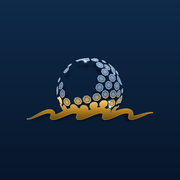
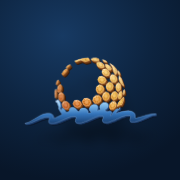
Ny loggstil Guldglas: bollen guld→orange, vågen i havsblått glas. Nya ikoner, startbilder och länkbild
Claude-Session: https://claude.ai/code/session_01D7uWpBJseNu5K1kmnTTqJf

Changed region(s): [[0.1389, 0.1389, 0.8889, 0.6944]]

diff --git a/index.html b/index.html
@@ -612,10 +612,10 @@ main{min-height:calc(100lvh + 1px);box-sizing:border-box}
 .xl .tf{transform:translateZ(0)}
 .xl .spk{transform:translateZ(4px);filter:drop-shadow(0 0 2px #fff) drop-shadow(0 0 5px rgba(170,215,255,.9))}
 .xl .b{fill:url(#xl-c)}
-.xl .tf polygon:not(.o):not(.b){stroke:rgba(255,255,255,.4);stroke-width:.14;stroke-linejoin:miter}
+.xl .tf polygon:not(.o):not(.b){stroke:rgba(255,240,210,.22);stroke-width:.12;stroke-linejoin:miter}
 .xl .t{fill:#fff;fill-opacity:var(--t,.25)}
 .xl .o{fill:none;stroke:#fff;stroke-opacity:.92;stroke-width:.38;stroke-linejoin:miter}
-.xl .g{fill:url(#xl-g);stroke:#fff6d8;stroke-opacity:.8;stroke-width:.3;stroke-linejoin:round}
+.xl .g{fill:url(#xl-g);stroke:#eef7ff;stroke-opacity:.8;stroke-width:.3;stroke-linejoin:round}
 .xl .sp{fill:#fff;opacity:0;transform-box:fill-box;transform-origin:center;animation:xltw 4.2s ease-in-out infinite}
 @keyframes xltw{0%,74%,100%{opacity:0;transform:scale(.1) rotate(0)}84%{opacity:1;transform:scale(1) rotate(45deg)}92%{opacity:.2;transform:scale(.4) rotate(90deg)}}
 .hero .xl+.eyebrow{margin-top:18px!important}
@@ -900,6 +900,8 @@ body[data-view="tv"]{background:radial-gradient(120% 90% at 20% 0%,#1d3550 0%,#0
 body.sun .qbtn{background:#eef3f7;border-color:#cfd9e3}
 #playCode .codebox{padding-top:22px;padding-bottom:26px}
 #playCode .codebox .codein{font-size:2.4rem;padding-top:14px;padding-bottom:14px}
+.lg:not(.big){filter:drop-shadow(0 0 1px rgba(255,255,255,.6)) drop-shadow(0 0 6px rgba(240,170,70,.35))!important}
+.xl .spk{filter:drop-shadow(0 0 2px #fff) drop-shadow(0 0 5px rgba(255,200,110,.9))!important}
 </style></head>
 <body><svg width="0" height="0" style="position:absolute" aria-hidden="true"><defs>
 <linearGradient id="lg-grad" x1="0" y1="0" x2="0" y2="1"><stop offset=".6" style="stop-color:currentColor"/><stop offset=".88" style="stop-color:var(--gold)"/></linearGradient>
@@ -918,8 +920,8 @@ body.sun .qbtn{background:#eef3f7;border-color:#cfd9e3}
 <symbol id="i-ext" viewBox="0 0 24 24"><path d="M7 17L17 7M8 7h9v9"/></symbol>
 <symbol id="i-next" viewBox="0 0 24 24"><path d="M9 6l6 6-6 6"/></symbol>
 <symbol id="i-back" viewBox="0 0 24 24"><path d="M19 12H5M11 6l-6 6 6 6"/></symbol>
-<linearGradient id="lg-crystal" x1="0" y1="0" x2=".35" y2="1"><stop offset="0" stop-color="#ffffff" stop-opacity=".98"/><stop offset=".28" stop-color="#e3f1ff" stop-opacity=".82"/><stop offset=".46" stop-color="#9fc4e8" stop-opacity=".62"/><stop offset=".53" stop-color="#ffffff" stop-opacity=".95"/><stop offset=".6" stop-color="#bcd8f2" stop-opacity=".7"/><stop offset=".74" stop-color="#f6dd8e" stop-opacity=".95"/><stop offset="1" stop-color="#b58b24" stop-opacity=".95"/></linearGradient>
-<symbol id="i-logo" viewBox="0 56.0 200 103.0"><path fill="url(#lg-crystal)" stroke="rgba(255,255,255,.75)" stroke-width=".6" fill-rule="evenodd" stroke="none" d="M138.2 126.2 136.8 125.8 134.0 126.2 132.3 127.2 130.3 129.5 129.3 131.8 129.2 134.8 130.0 136.8 130.8 137.7 132.8 138.5 134.3 138.3 136.3 137.5 138.8 135.0 140.0 132.2 140.2 129.5 139.7 127.8ZM59.8 123.7 58.0 125.2 57.2 127.2 57.2 129.3 58.0 132.0 58.8 133.3 61.5 135.7 63.0 136.2 65.5 136.0 67.3 134.5 67.8 133.5 68.0 131.7 67.7 128.7 66.7 126.7 64.0 124.2 62.3 123.5ZM75.8 123.3 74.0 125.7 74.0 128.7 75.0 130.7 76.2 132.0 78.3 133.5 80.2 134.0 83.7 133.8 85.8 132.3 86.8 130.5 86.8 128.2 85.8 125.8 84.3 124.2 82.3 123.0 80.2 122.3 78.3 122.3ZM90.8 120.3 88.8 122.3 88.0 124.7 88.3 127.2 90.0 129.8 92.2 131.5 93.8 132.0 97.7 131.8 99.5 130.7 100.7 129.3 101.3 127.3 101.3 125.5 101.0 124.2 100.0 122.3 97.3 120.2 95.0 119.5 93.3 119.5ZM151.5 119.3 150.8 119.8 149.7 122.3 149.0 123.0 146.8 123.5 144.0 126.5 142.3 129.3 141.8 131.0 141.0 132.3 141.0 134.2 141.3 134.7 141.8 134.8 142.7 134.5 144.5 132.8 146.2 130.5 146.8 130.8 146.7 132.5 147.0 132.8 147.5 132.8 147.8 132.5 149.7 128.7 151.7 122.5 151.8 119.7ZM114.0 116.2 111.8 115.7 108.5 116.0 106.8 117.0 105.2 118.7 104.0 121.0 104.0 124.2 105.2 126.2 106.5 127.3 108.8 128.2 111.2 128.2 112.5 127.8 114.2 127.0 115.7 125.7 116.5 124.5 117.2 122.2 117.0 119.8 116.0 117.8ZM124.0 110.7 122.5 111.0 120.2 113.0 119.2 114.8 118.8 117.7 119.2 120.0 120.2 122.0 121.7 123.5 123.7 124.3 125.0 124.3 127.2 123.5 128.8 121.7 129.8 119.2 129.8 116.0 128.8 113.3 127.3 111.7 125.7 110.8ZM138.5 110.5 136.8 110.5 135.2 111.2 133.7 112.7 132.2 115.7 132.0 118.8 132.7 121.2 134.2 123.0 135.8 123.8 138.0 123.7 139.3 122.8 140.7 121.5 141.8 119.3 141.8 113.5 140.3 111.3ZM147.7 110.0 146.3 110.3 145.5 111.2 144.2 113.3 143.7 115.3 143.0 116.5 143.0 121.7 144.0 123.0 145.2 123.0 146.5 121.8 147.7 120.2 148.0 118.7 148.7 117.5 149.0 115.2 149.0 111.8 148.5 110.5ZM55.2 109.5 53.7 110.2 52.2 112.2 51.5 114.8 51.5 117.8 52.0 120.2 52.5 121.2 53.8 122.7 55.5 123.2 56.8 122.7 58.7 120.0 59.0 118.3 59.0 114.5 58.7 112.7 57.7 111.0 56.7 110.0ZM152.3 107.8 151.3 108.5 150.8 110.5 150.7 115.0 151.2 116.0 151.7 116.0 152.0 115.7 152.8 112.8 152.8 108.3ZM47.0 104.3 46.2 104.5 45.8 107.5 46.0 117.3 46.2 118.2 46.7 118.5 47.5 117.7 47.8 116.0 47.8 107.5 47.7 105.7ZM114.3 99.5 112.3 100.2 110.2 102.2 109.2 104.2 109.0 107.7 110.2 110.5 112.2 112.3 113.7 113.0 116.5 113.0 119.0 111.7 120.3 110.0 121.2 107.5 121.2 105.2 120.5 102.8 118.7 100.7 116.5 99.7ZM143.7 97.2 142.2 97.5 140.8 98.7 140.2 99.8 139.3 103.0 139.3 104.8 140.0 107.8 141.0 109.5 141.8 110.3 143.0 110.8 144.2 110.7 145.7 109.5 146.8 107.2 147.2 104.7 147.0 102.0 146.3 99.7 145.3 98.2ZM54.3 97.2 53.2 97.5 52.2 98.3 51.0 100.2 50.8 101.2 50.0 102.8 49.5 105.3 49.5 108.3 50.0 109.7 50.8 110.3 51.5 110.3 52.3 109.8 53.7 108.3 54.7 106.5 55.7 103.0 55.7 98.8 55.0 97.7ZM129.0 95.8 127.8 96.2 126.7 97.0 125.2 99.0 124.5 101.8 124.5 103.0 125.0 105.7 126.8 108.2 127.8 108.8 129.0 109.2 131.2 109.2 132.3 108.8 134.5 106.7 135.5 103.8 135.5 101.2 134.8 99.0 133.5 97.2 132.2 96.2 131.2 95.8ZM50.8 90.2 50.3 90.2 49.8 90.7 48.2 93.8 47.5 96.5 47.5 97.5 47.8 97.8 48.5 97.8 50.7 94.0 51.2 90.7ZM144.5 86.3 143.8 86.8 143.7 87.3 143.7 90.0 144.2 92.5 144.8 93.8 145.2 95.3 147.5 98.8 149.3 99.2 149.7 99.5 150.2 102.2 151.2 104.5 151.5 104.5 151.8 104.0 151.8 103.0 150.5 97.8 149.0 95.5 148.7 93.2 146.8 88.8 145.8 87.3ZM113.7 87.2 112.2 88.7 111.8 89.5 112.0 93.2 113.7 95.7 116.5 97.5 119.0 98.0 122.0 97.5 123.8 96.0 124.7 94.5 124.7 91.8 123.7 89.7 122.0 88.0 120.0 86.8 118.2 86.2 116.0 86.2ZM133.5 84.2 132.5 84.7 131.2 86.0 130.8 86.8 130.7 90.2 131.2 92.3 132.3 94.2 133.8 95.7 135.5 96.7 138.8 96.7 140.7 95.2 141.2 93.8 141.5 92.0 140.8 88.8 139.2 86.3 137.8 85.2 135.2 84.0ZM142.2 78.2 141.8 78.7 142.0 79.8 143.3 83.0 145.0 85.5 146.0 85.7 146.3 85.2 146.2 84.2 144.7 80.7 142.7 78.2ZM119.5 76.0 118.3 77.7 118.0 79.2 118.8 82.0 120.7 84.5 122.5 85.8 125.5 86.8 127.3 86.7 128.8 85.8 129.7 85.0 130.3 83.2 130.0 80.7 128.7 78.2 127.8 77.5 127.5 76.8 126.7 76.2 125.7 76.0 123.5 75.0 121.7 75.0 120.5 75.3ZM64.8 73.0 63.3 73.0 59.3 76.5 56.2 81.3 56.0 82.3 56.3 83.2 57.0 83.3 58.3 82.8 61.8 79.8 64.8 75.7 65.3 73.5ZM123.3 68.2 123.0 69.0 123.2 70.5 124.8 73.3 126.7 75.2 127.0 75.8 130.3 77.8 132.8 77.8 133.3 76.8 132.8 74.7 131.5 72.5 130.2 71.0 128.0 69.2 126.0 68.0 124.2 67.8ZM130.3 66.8 130.2 67.7 131.2 69.2 135.2 73.3 134.7 75.2 135.0 77.5 137.2 82.2 139.0 84.7 140.2 85.7 141.0 86.0 141.7 85.8 142.0 85.2 141.8 83.5 140.8 81.3 140.7 80.3 139.0 77.7 139.3 77.0 140.5 77.0 140.5 76.2 137.5 72.5 133.8 69.0 131.2 67.0ZM69.5 67.0 68.2 67.0 66.0 68.2 63.2 70.5 62.7 71.2 62.7 71.7 63.0 72.0 64.3 72.0 67.3 70.0 69.3 68.0 69.7 67.3ZM110.2 65.3 109.8 66.2 110.0 68.3 110.8 69.7 112.8 71.7 114.8 72.8 118.5 73.8 120.5 73.5 121.8 72.5 122.0 70.7 121.7 69.2 119.5 66.7 117.5 65.3 114.7 64.3 113.3 64.2 111.8 64.3ZM119.0 61.0 119.0 61.7 120.2 62.8 122.7 64.5 125.3 65.5 126.0 65.3 126.0 64.3 123.5 62.3 120.8 61.0ZM101.2 59.3 101.2 59.8 103.2 61.3 107.3 62.7 113.3 62.8 114.3 62.2 114.3 61.3 113.5 60.7 113.5 59.7 113.2 59.2 110.0 58.0 105.7 57.7 104.5 58.5 102.8 58.5 101.7 58.8ZM99.3 61.2 98.0 60.2 96.3 60.0 95.2 59.5 95.5 59.0 96.3 58.8 97.3 58.2 97.2 57.2 91.7 57.0 90.3 57.3 89.3 58.0 89.3 59.7 87.3 60.0 86.8 59.5 86.8 58.8 86.5 58.5 82.5 59.2 75.3 62.0 73.8 63.0 73.7 63.7 74.5 64.0 79.3 62.8 81.0 62.0 82.5 61.7 85.5 60.2 86.2 60.3 86.0 61.5 87.7 62.7 91.3 63.2 95.2 63.2 98.0 62.8 99.2 62.0ZM0.0 157.5 5.3 156.8 7.5 156.0 9.3 155.7 23.2 150.0 24.7 149.7 25.8 149.0 28.0 148.7 29.3 148.0 31.7 147.7 36.0 147.7 36.7 147.8 37.7 149.0 37.7 149.8 36.5 153.7 36.5 155.3 37.0 156.3 39.2 157.7 44.3 157.7 51.5 155.7 53.0 154.8 54.2 154.7 55.2 154.0 67.8 149.0 72.3 147.8 76.7 147.7 78.0 148.0 78.8 149.0 78.8 150.2 78.2 151.5 77.8 153.0 77.8 155.5 78.2 156.3 80.0 157.7 85.0 157.8 87.2 157.5 88.2 157.0 90.2 156.7 91.0 156.2 93.7 155.5 109.3 149.0 110.8 148.8 114.0 147.8 117.8 147.7 119.5 148.0 120.2 149.2 120.0 150.7 119.2 152.7 119.0 154.0 119.2 155.7 119.7 156.5 121.5 157.7 126.0 157.8 128.2 157.5 131.7 156.5 132.5 156.0 134.3 155.7 135.8 154.8 136.8 154.7 140.3 153.0 141.7 152.7 142.7 152.0 144.2 151.7 145.5 150.8 150.3 149.0 152.3 148.7 154.5 147.8 160.0 147.7 161.0 148.0 161.5 148.5 161.8 149.5 160.7 153.3 160.7 155.3 161.0 156.2 161.8 157.0 163.3 157.7 167.8 157.7 175.2 155.7 191.0 149.0 194.8 147.8 199.8 147.3 199.8 146.2 195.5 146.0 191.3 146.5 188.0 147.2 186.3 147.8 183.8 148.2 182.5 148.8 180.3 149.2 175.2 150.8 172.8 151.2 170.8 151.8 168.5 151.8 168.0 151.2 168.3 150.0 168.3 147.8 167.5 145.0 166.7 143.8 164.8 142.2 162.3 141.0 158.3 140.3 153.2 140.7 146.8 142.0 145.0 142.8 143.0 143.2 141.8 143.8 139.3 144.5 139.3 143.5 140.7 142.0 142.5 139.0 143.8 139.0 144.7 138.3 145.8 136.7 146.0 135.7 145.3 135.3 143.5 137.7 142.8 137.7 141.5 137.0 139.5 138.0 138.5 138.8 135.0 142.7 133.5 145.5 133.3 146.3 132.3 147.2 131.2 147.3 131.2 146.5 132.5 144.7 132.8 143.7 132.8 142.3 132.5 141.7 131.5 140.8 130.0 140.3 125.8 141.0 123.5 139.7 122.7 138.8 123.2 138.0 124.3 137.7 126.5 135.7 127.5 134.0 127.8 132.5 127.7 130.3 127.0 129.2 125.8 128.0 124.0 127.2 120.3 127.3 118.3 128.2 116.2 130.2 115.2 131.7 114.8 133.8 115.2 136.2 116.2 137.3 116.2 137.8 115.5 138.3 114.0 138.3 112.2 138.8 111.2 138.8 110.7 138.3 111.8 136.0 111.8 132.8 110.8 131.3 109.5 130.3 108.0 129.8 105.2 129.8 103.8 130.2 102.3 131.0 100.3 132.8 99.0 135.5 99.2 138.3 99.7 139.2 101.8 141.2 101.8 141.5 101.3 142.0 100.2 142.2 99.2 142.8 97.3 143.2 97.0 142.8 96.8 139.8 95.8 138.0 94.2 136.3 92.2 135.2 88.5 134.8 86.5 135.3 85.0 136.7 84.2 138.2 84.0 140.0 83.3 140.5 80.5 139.2 79.7 138.3 78.8 136.8 77.2 135.2 75.0 134.0 73.3 133.7 71.7 133.7 70.5 134.0 69.0 135.3 68.3 136.8 68.5 139.2 68.0 139.8 64.0 141.3 63.3 141.3 60.5 136.8 58.2 134.5 57.2 134.3 56.8 134.7 56.8 138.5 56.0 138.2 55.8 137.5 53.7 134.7 53.7 134.3 54.8 133.3 55.0 131.7 54.7 128.7 53.7 125.7 52.5 123.3 50.8 121.3 50.0 121.2 48.7 123.0 47.5 122.3 47.3 123.2 48.0 125.3 48.3 125.7 49.3 125.3 49.8 126.0 50.0 127.3 51.2 130.5 52.2 132.0 52.2 132.7 51.5 133.3 52.0 135.3 55.2 140.8 57.0 143.2 57.2 143.7 56.7 144.5 54.8 145.2 54.0 145.8 50.0 147.8 49.0 148.0 47.3 149.0 44.3 149.8 43.8 149.3 43.7 147.5 42.8 145.3 40.8 143.2 39.0 142.2 37.2 141.8 33.2 141.8 30.7 142.2 29.2 142.8 27.3 143.2 23.2 145.0 7.0 154.0 2.7 155.8 0.0 156.2ZM87.8 146.3 88.2 145.8 88.7 145.8 89.2 146.5 88.3 147.0ZM57.2 139.2 57.5 139.2Z"/></symbol>
+<linearGradient id="lg-dots" gradientUnits="userSpaceOnUse" x1="150" y1="58" x2="60" y2="140"><stop offset="0" stop-color="#fff3c4"/><stop offset=".4" stop-color="#f6c24f"/><stop offset=".75" stop-color="#ec8f2e"/><stop offset="1" stop-color="#cf5f28"/></linearGradient><linearGradient id="lg-wave" gradientUnits="userSpaceOnUse" x1="0" y1="120" x2="200" y2="158"><stop offset="0" stop-color="#d6ecff"/><stop offset=".45" stop-color="#6aaee6"/><stop offset="1" stop-color="#1f4f8f"/></linearGradient><linearGradient id="lg-crystal" x1="0" y1="0" x2=".35" y2="1"><stop offset="0" stop-color="#ffffff" stop-opacity=".98"/><stop offset=".28" stop-color="#e3f1ff" stop-opacity=".82"/><stop offset=".46" stop-color="#9fc4e8" stop-opacity=".62"/><stop offset=".53" stop-color="#ffffff" stop-opacity=".95"/><stop offset=".6" stop-color="#bcd8f2" stop-opacity=".7"/><stop offset=".74" stop-color="#f6dd8e" stop-opacity=".95"/><stop offset="1" stop-color="#b58b24" stop-opacity=".95"/></linearGradient>
+<symbol id="i-logo" viewBox="0 56.0 200 103.0"><path class="lgd" fill="url(#lg-dots)" fill-rule="evenodd" stroke="#fff" stroke-opacity=".35" stroke-width=".5" d="M138.2 126.2 136.8 125.8 134.0 126.2 132.3 127.2 130.3 129.5 129.3 131.8 129.2 134.8 130.0 136.8 130.8 137.7 132.8 138.5 134.3 138.3 136.3 137.5 138.8 135.0 140.0 132.2 140.2 129.5 139.7 127.8ZM59.8 123.7 58.0 125.2 57.2 127.2 57.2 129.3 58.0 132.0 58.8 133.3 61.5 135.7 63.0 136.2 65.5 136.0 67.3 134.5 67.8 133.5 68.0 131.7 67.7 128.7 66.7 126.7 64.0 124.2 62.3 123.5ZM75.8 123.3 74.0 125.7 74.0 128.7 75.0 130.7 76.2 132.0 78.3 133.5 80.2 134.0 83.7 133.8 85.8 132.3 86.8 130.5 86.8 128.2 85.8 125.8 84.3 124.2 82.3 123.0 80.2 122.3 78.3 122.3ZM90.8 120.3 88.8 122.3 88.0 124.7 88.3 127.2 90.0 129.8 92.2 131.5 93.8 132.0 97.7 131.8 99.5 130.7 100.7 129.3 101.3 127.3 101.3 125.5 101.0 124.2 100.0 122.3 97.3 120.2 95.0 119.5 93.3 119.5ZM151.5 119.3 150.8 119.8 149.7 122.3 149.0 123.0 146.8 123.5 144.0 126.5 142.3 129.3 141.8 131.0 141.0 132.3 141.0 134.2 141.3 134.7 141.8 134.8 142.7 134.5 144.5 132.8 146.2 130.5 146.8 130.8 146.7 132.5 147.0 132.8 147.5 132.8 147.8 132.5 149.7 128.7 151.7 122.5 151.8 119.7ZM114.0 116.2 111.8 115.7 108.5 116.0 106.8 117.0 105.2 118.7 104.0 121.0 104.0 124.2 105.2 126.2 106.5 127.3 108.8 128.2 111.2 128.2 112.5 127.8 114.2 127.0 115.7 125.7 116.5 124.5 117.2 122.2 117.0 119.8 116.0 117.8ZM124.0 110.7 122.5 111.0 120.2 113.0 119.2 114.8 118.8 117.7 119.2 120.0 120.2 122.0 121.7 123.5 123.7 124.3 125.0 124.3 127.2 123.5 128.8 121.7 129.8 119.2 129.8 116.0 128.8 113.3 127.3 111.7 125.7 110.8ZM138.5 110.5 136.8 110.5 135.2 111.2 133.7 112.7 132.2 115.7 132.0 118.8 132.7 121.2 134.2 123.0 135.8 123.8 138.0 123.7 139.3 122.8 140.7 121.5 141.8 119.3 141.8 113.5 140.3 111.3ZM147.7 110.0 146.3 110.3 145.5 111.2 144.2 113.3 143.7 115.3 143.0 116.5 143.0 121.7 144.0 123.0 145.2 123.0 146.5 121.8 147.7 120.2 148.0 118.7 148.7 117.5 149.0 115.2 149.0 111.8 148.5 110.5ZM55.2 109.5 53.7 110.2 52.2 112.2 51.5 114.8 51.5 117.8 52.0 120.2 52.5 121.2 53.8 122.7 55.5 123.2 56.8 122.7 58.7 120.0 59.0 118.3 59.0 114.5 58.7 112.7 57.7 111.0 56.7 110.0ZM152.3 107.8 151.3 108.5 150.8 110.5 150.7 115.0 151.2 116.0 151.7 116.0 152.0 115.7 152.8 112.8 152.8 108.3ZM47.0 104.3 46.2 104.5 45.8 107.5 46.0 117.3 46.2 118.2 46.7 118.5 47.5 117.7 47.8 116.0 47.8 107.5 47.7 105.7ZM114.3 99.5 112.3 100.2 110.2 102.2 109.2 104.2 109.0 107.7 110.2 110.5 112.2 112.3 113.7 113.0 116.5 113.0 119.0 111.7 120.3 110.0 121.2 107.5 121.2 105.2 120.5 102.8 118.7 100.7 116.5 99.7ZM143.7 97.2 142.2 97.5 140.8 98.7 140.2 99.8 139.3 103.0 139.3 104.8 140.0 107.8 141.0 109.5 141.8 110.3 143.0 110.8 144.2 110.7 145.7 109.5 146.8 107.2 147.2 104.7 147.0 102.0 146.3 99.7 145.3 98.2ZM54.3 97.2 53.2 97.5 52.2 98.3 51.0 100.2 50.8 101.2 50.0 102.8 49.5 105.3 49.5 108.3 50.0 109.7 50.8 110.3 51.5 110.3 52.3 109.8 53.7 108.3 54.7 106.5 55.7 103.0 55.7 98.8 55.0 97.7ZM129.0 95.8 127.8 96.2 126.7 97.0 125.2 99.0 124.5 101.8 124.5 103.0 125.0 105.7 126.8 108.2 127.8 108.8 129.0 109.2 131.2 109.2 132.3 108.8 134.5 106.7 135.5 103.8 135.5 101.2 134.8 99.0 133.5 97.2 132.2 96.2 131.2 95.8ZM50.8 90.2 50.3 90.2 49.8 90.7 48.2 93.8 47.5 96.5 47.5 97.5 47.8 97.8 48.5 97.8 50.7 94.0 51.2 90.7ZM144.5 86.3 143.8 86.8 143.7 87.3 143.7 90.0 144.2 92.5 144.8 93.8 145.2 95.3 147.5 98.8 149.3 99.2 149.7 99.5 150.2 102.2 151.2 104.5 151.5 104.5 151.8 104.0 151.8 103.0 150.5 97.8 149.0 95.5 148.7 93.2 146.8 88.8 145.8 87.3ZM113.7 87.2 112.2 88.7 111.8 89.5 112.0 93.2 113.7 95.7 116.5 97.5 119.0 98.0 122.0 97.5 123.8 96.0 124.7 94.5 124.7 91.8 123.7 89.7 122.0 88.0 120.0 86.8 118.2 86.2 116.0 86.2ZM133.5 84.2 132.5 84.7 131.2 86.0 130.8 86.8 130.7 90.2 131.2 92.3 132.3 94.2 133.8 95.7 135.5 96.7 138.8 96.7 140.7 95.2 141.2 93.8 141.5 92.0 140.8 88.8 139.2 86.3 137.8 85.2 135.2 84.0ZM142.2 78.2 141.8 78.7 142.0 79.8 143.3 83.0 145.0 85.5 146.0 85.7 146.3 85.2 146.2 84.2 144.7 80.7 142.7 78.2ZM119.5 76.0 118.3 77.7 118.0 79.2 118.8 82.0 120.7 84.5 122.5 85.8 125.5 86.8 127.3 86.7 128.8 85.8 129.7 85.0 130.3 83.2 130.0 80.7 128.7 78.2 127.8 77.5 127.5 76.8 126.7 76.2 125.7 76.0 123.5 75.0 121.7 75.0 120.5 75.3ZM64.8 73.0 63.3 73.0 59.3 76.5 56.2 81.3 56.0 82.3 56.3 83.2 57.0 83.3 58.3 82.8 61.8 79.8 64.8 75.7 65.3 73.5ZM123.3 68.2 123.0 69.0 123.2 70.5 124.8 73.3 126.7 75.2 127.0 75.8 130.3 77.8 132.8 77.8 133.3 76.8 132.8 74.7 131.5 72.5 130.2 71.0 128.0 69.2 126.0 68.0 124.2 67.8ZM130.3 66.8 130.2 67.7 131.2 69.2 135.2 73.3 134.7 75.2 135.0 77.5 137.2 82.2 139.0 84.7 140.2 85.7 141.0 86.0 141.7 85.8 142.0 85.2 141.8 83.5 140.8 81.3 140.7 80.3 139.0 77.7 139.3 77.0 140.5 77.0 140.5 76.2 137.5 72.5 133.8 69.0 131.2 67.0ZM69.5 67.0 68.2 67.0 66.0 68.2 63.2 70.5 62.7 71.2 62.7 71.7 63.0 72.0 64.3 72.0 67.3 70.0 69.3 68.0 69.7 67.3ZM110.2 65.3 109.8 66.2 110.0 68.3 110.8 69.7 112.8 71.7 114.8 72.8 118.5 73.8 120.5 73.5 121.8 72.5 122.0 70.7 121.7 69.2 119.5 66.7 117.5 65.3 114.7 64.3 113.3 64.2 111.8 64.3ZM119.0 61.0 119.0 61.7 120.2 62.8 122.7 64.5 125.3 65.5 126.0 65.3 126.0 64.3 123.5 62.3 120.8 61.0ZM101.2 59.3 101.2 59.8 103.2 61.3 107.3 62.7 113.3 62.8 114.3 62.2 114.3 61.3 113.5 60.7 113.5 59.7 113.2 59.2 110.0 58.0 105.7 57.7 104.5 58.5 102.8 58.5 101.7 58.8ZM99.3 61.2 98.0 60.2 96.3 60.0 95.2 59.5 95.5 59.0 96.3 58.8 97.3 58.2 97.2 57.2 91.7 57.0 90.3 57.3 89.3 58.0 89.3 59.7 87.3 60.0 86.8 59.5 86.8 58.8 86.5 58.5 82.5 59.2 75.3 62.0 73.8 63.0 73.7 63.7 74.5 64.0 79.3 62.8 81.0 62.0 82.5 61.7 85.5 60.2 86.2 60.3 86.0 61.5 87.7 62.7 91.3 63.2 95.2 63.2 98.0 62.8 99.2 62.0ZM87.8 146.3 88.2 145.8 88.7 145.8 89.2 146.5 88.3 147.0ZM57.2 139.2 57.5 139.2Z"/><path class="lgw" fill="url(#lg-wave)" stroke="#fff" stroke-opacity=".3" stroke-width=".5" d="M0.0 157.5 5.3 156.8 7.5 156.0 9.3 155.7 23.2 150.0 24.7 149.7 25.8 149.0 28.0 148.7 29.3 148.0 31.7 147.7 36.0 147.7 36.7 147.8 37.7 149.0 37.7 149.8 36.5 153.7 36.5 155.3 37.0 156.3 39.2 157.7 44.3 157.7 51.5 155.7 53.0 154.8 54.2 154.7 55.2 154.0 67.8 149.0 72.3 147.8 76.7 147.7 78.0 148.0 78.8 149.0 78.8 150.2 78.2 151.5 77.8 153.0 77.8 155.5 78.2 156.3 80.0 157.7 85.0 157.8 87.2 157.5 88.2 157.0 90.2 156.7 91.0 156.2 93.7 155.5 109.3 149.0 110.8 148.8 114.0 147.8 117.8 147.7 119.5 148.0 120.2 149.2 120.0 150.7 119.2 152.7 119.0 154.0 119.2 155.7 119.7 156.5 121.5 157.7 126.0 157.8 128.2 157.5 131.7 156.5 132.5 156.0 134.3 155.7 135.8 154.8 136.8 154.7 140.3 153.0 141.7 152.7 142.7 152.0 144.2 151.7 145.5 150.8 150.3 149.0 152.3 148.7 154.5 147.8 160.0 147.7 161.0 148.0 161.5 148.5 161.8 149.5 160.7 153.3 160.7 155.3 161.0 156.2 161.8 157.0 163.3 157.7 167.8 157.7 175.2 155.7 191.0 149.0 194.8 147.8 199.8 147.3 199.8 146.2 195.5 146.0 191.3 146.5 188.0 147.2 186.3 147.8 183.8 148.2 182.5 148.8 180.3 149.2 175.2 150.8 172.8 151.2 170.8 151.8 168.5 151.8 168.0 151.2 168.3 150.0 168.3 147.8 167.5 145.0 166.7 143.8 164.8 142.2 162.3 141.0 158.3 140.3 153.2 140.7 146.8 142.0 145.0 142.8 143.0 143.2 141.8 143.8 139.3 144.5 139.3 143.5 140.7 142.0 142.5 139.0 143.8 139.0 144.7 138.3 145.8 136.7 146.0 135.7 145.3 135.3 143.5 137.7 142.8 137.7 141.5 137.0 139.5 138.0 138.5 138.8 135.0 142.7 133.5 145.5 133.3 146.3 132.3 147.2 131.2 147.3 131.2 146.5 132.5 144.7 132.8 143.7 132.8 142.3 132.5 141.7 131.5 140.8 130.0 140.3 125.8 141.0 123.5 139.7 122.7 138.8 123.2 138.0 124.3 137.7 126.5 135.7 127.5 134.0 127.8 132.5 127.7 130.3 127.0 129.2 125.8 128.0 124.0 127.2 120.3 127.3 118.3 128.2 116.2 130.2 115.2 131.7 114.8 133.8 115.2 136.2 116.2 137.3 116.2 137.8 115.5 138.3 114.0 138.3 112.2 138.8 111.2 138.8 110.7 138.3 111.8 136.0 111.8 132.8 110.8 131.3 109.5 130.3 108.0 129.8 105.2 129.8 103.8 130.2 102.3 131.0 100.3 132.8 99.0 135.5 99.2 138.3 99.7 139.2 101.8 141.2 101.8 141.5 101.3 142.0 100.2 142.2 99.2 142.8 97.3 143.2 97.0 142.8 96.8 139.8 95.8 138.0 94.2 136.3 92.2 135.2 88.5 134.8 86.5 135.3 85.0 136.7 84.2 138.2 84.0 140.0 83.3 140.5 80.5 139.2 79.7 138.3 78.8 136.8 77.2 135.2 75.0 134.0 73.3 133.7 71.7 133.7 70.5 134.0 69.0 135.3 68.3 136.8 68.5 139.2 68.0 139.8 64.0 141.3 63.3 141.3 60.5 136.8 58.2 134.5 57.2 134.3 56.8 134.7 56.8 138.5 56.0 138.2 55.8 137.5 53.7 134.7 53.7 134.3 54.8 133.3 55.0 131.7 54.7 128.7 53.7 125.7 52.5 123.3 50.8 121.3 50.0 121.2 48.7 123.0 47.5 122.3 47.3 123.2 48.0 125.3 48.3 125.7 49.3 125.3 49.8 126.0 50.0 127.3 51.2 130.5 52.2 132.0 52.2 132.7 51.5 133.3 52.0 135.3 55.2 140.8 57.0 143.2 57.2 143.7 56.7 144.5 54.8 145.2 54.0 145.8 50.0 147.8 49.0 148.0 47.3 149.0 44.3 149.8 43.8 149.3 43.7 147.5 42.8 145.3 40.8 143.2 39.0 142.2 37.2 141.8 33.2 141.8 30.7 142.2 29.2 142.8 27.3 143.2 23.2 145.0 7.0 154.0 2.7 155.8 0.0 156.2Z"/></symbol>
 </defs></svg>
 <svg class="scene bd" viewBox="0 0 400 260" preserveAspectRatio="xMidYMid slice" aria-hidden="true"><defs>
 <linearGradient id="sky" x1="0" y1="0" x2="0" y2="1"><stop offset="0" stop-color="#26364a"/><stop offset=".55" stop-color="#6f7f91"/><stop offset=".9" stop-color="#cfcabb"/><stop offset="1" stop-color="#e6dcc4"/></linearGradient>
@@ -1517,8 +1519,8 @@ function sessRow(c,compact,inside){
 (function(){
   const host=document.getElementById("xl");if(!host)return;
   const rm=matchMedia("(prefers-reduced-motion:reduce)").matches;
-  const lp=document.querySelector("#i-logo path");if(!lp)return;
-  const subs=lp.getAttribute("d").split("M").filter(t=>t.trim()).map(t=>{const n=t.match(/-?[\d.]+/g).map(Number),p=[];for(let i=0;i+1<n.length;i+=2)p.push([n[i],n[i+1]]);return p});
+  const lps=[...document.querySelectorAll("#i-logo path")];if(!lps.length)return;
+  const subs=lps.map(x=>x.getAttribute("d")).join("").split("M").filter(t=>t.trim()).map(t=>{const n=t.match(/-?[\d.]+/g).map(Number),p=[];for(let i=0;i+1<n.length;i+=2)p.push([n[i],n[i+1]]);return p});
   const area=p=>{let a=0;for(let i=0;i<p.length;i++){const q=p[i],r=p[(i+1)%p.length];a+=q[0]*r[1]-r[0]*q[1]}return a/2};
   const cen=p=>{let x=0,y=0;p.forEach(q=>{x+=q[0];y+=q[1]});return[x/p.length,y/p.length]};
   const resample=(p,k)=>{const L=[0];for(let i=1;i<=p.length;i++){const a=p[i-1],b=p[i%p.length];L.push(L[i-1]+Math.hypot(b[0]-a[0],b[1]-a[1]))}
@@ -1545,8 +1547,8 @@ function sessRow(c,compact,inside){
     if(a>20)o.forEach(q=>cand.push(q));
   });
   // Facettfärger: lätt regnbågsskimmer som i en kristallkrona
-  const hue=[195,215,255,300,340,25,45,70,140,165,180,200];
-  let css="";for(let b=0;b<NB;b++)css+=".xl .e"+b+"{fill:hsl("+hue[b]+" 100% 93%);fill-opacity:var(--e"+b+",.15)}.xl .s"+b+"{fill:#06111d;fill-opacity:var(--s"+b+",.3)}";
+  const hue=[48,40,32,22,14,52,58,44,36,28,18,50];
+  let css="";for(let b=0;b<NB;b++)css+=".xl .e"+b+"{fill:hsl("+hue[b]+" 100% 93%);fill-opacity:var(--e"+b+",.15)}.xl .s"+b+"{fill:#7a3410;fill-opacity:var(--s"+b+",.2)}";
   const st=document.createElement("style");st.textContent=css;document.head.appendChild(st);
   // Gnistor på kristallens hörn
   let spk="";const star="M0-3.2L.55-.55 3.2 0 .55.55 0 3.2-.55.55-3.2 0-.55-.55Z";
@@ -1554,11 +1556,11 @@ function sessRow(c,compact,inside){
   const VB='viewBox="-8 48 216 118"';
   const N=12,STEP=1.2;let slices="";
   const mix=(a,b,t)=>"rgb("+a.map((v,i)=>Math.round(v+(b[i]-v)*t)).join(",")+")";
-  for(let i=N;i>=1;i--){const t=i/N;slices+='<svg class="sl" '+VB+' style="transform:translateZ('+(-i*STEP).toFixed(1)+'px)"><use href="#xl-sc" fill="'+mix([70,104,146],[10,22,36],t)+'"/><use href="#xl-sg" fill="'+mix([150,108,30],[48,32,6],t)+'"/></svg>'}
+  for(let i=N;i>=1;i--){const t=i/N;slices+='<svg class="sl" '+VB+' style="transform:translateZ('+(-i*STEP).toFixed(1)+'px)"><use href="#xl-sc" fill="'+mix([168,92,30],[42,18,6],t)+'"/><use href="#xl-sg" fill="'+mix([34,78,140],[6,16,32],t)+'"/></svg>'}
   host.innerHTML=
    '<svg class="xd" width="0" height="0" aria-hidden="true"><defs>'+
-     '<linearGradient id="xl-c" gradientUnits="userSpaceOnUse" x1="0" y1="56" x2="0" y2="140"><stop offset="0" stop-color="#8fbbe6"/><stop offset=".42" stop-color="#4f78a8"/><stop offset=".7" stop-color="#3d5e88"/><stop offset=".84" stop-color="#a87f27"/><stop offset="1" stop-color="#d6a43a"/></linearGradient>'+
-     '<linearGradient id="xl-g" gradientUnits="userSpaceOnUse" x1="0" y1="118" x2="0" y2="158"><stop offset="0" stop-color="#fff4cc"/><stop offset=".3" stop-color="#ecc25a"/><stop offset=".65" stop-color="#b07c1c"/><stop offset="1" stop-color="#6e4a10"/></linearGradient>'+
+     '<linearGradient id="xl-c" gradientUnits="userSpaceOnUse" x1="150" y1="58" x2="60" y2="140"><stop offset="0" stop-color="#ffe9a8"/><stop offset=".4" stop-color="#eeb43f"/><stop offset=".75" stop-color="#df7f27"/><stop offset="1" stop-color="#bf5524"/></linearGradient>'+
+     '<linearGradient id="xl-g" gradientUnits="userSpaceOnUse" x1="0" y1="118" x2="0" y2="158"><stop offset="0" stop-color="#e6f3ff"/><stop offset=".3" stop-color="#86c0ee"/><stop offset=".65" stop-color="#3474ba"/><stop offset="1" stop-color="#1a4274"/></linearGradient>'+
      '<linearGradient id="xl-gl" gradientUnits="userSpaceOnUse" x1="0" y1="0" x2="70" y2="40"><stop offset="0" stop-color="#fff" stop-opacity="0"/><stop offset=".44" stop-color="#fff" stop-opacity="0"/><stop offset=".5" stop-color="#fff" stop-opacity=".75"/><stop offset=".56" stop-color="#fff" stop-opacity="0"/><stop offset="1" stop-color="#fff" stop-opacity="0"/></linearGradient>'+
      '<g id="xl-sc">'+sil+'</g><path id="xl-sg" d="'+waveD+'"/>'+
      '<clipPath id="xl-clip">'+sil+'<path d="'+waveD+'"/></clipPath>'+
@@ -1573,9 +1575,9 @@ function sessRow(c,compact,inside){
   const light=(tx,ty)=>{
     let lx=-.55-tx*1.25,ly=-.8-ty*1.05;const l=Math.hypot(lx,ly)||1;lx/=l;ly/=l;
     for(let b=0;b<NB;b++){const a=b*TAU/NB,d=Math.max(0,Math.cos(a)*lx+Math.sin(a)*ly);
-      host.style.setProperty("--e"+b,(.08+.92*Math.pow(d,3)).toFixed(3));
-      host.style.setProperty("--s"+b,(.04+.62*Math.pow(1-d,2)).toFixed(3));}
-    host.style.setProperty("--t",(.22+.3*(.5+.5*Math.sin(tx*2.2-ty*1.6))).toFixed(3));
+      host.style.setProperty("--e"+b,(.04+.75*Math.pow(d,3)).toFixed(3));
+      host.style.setProperty("--s"+b,(.02+.3*Math.pow(1-d,2)).toFixed(3));}
+    host.style.setProperty("--t",(.12+.22*(.5+.5*Math.sin(tx*2.2-ty*1.6))).toFixed(3));
     band.setAttribute("transform","translate("+(40-tx*120).toFixed(1)+" "+(-ty*30).toFixed(1)+")");
   };
   const homeOn=()=>document.body.dataset.view==="home"&&!document.hidden;
